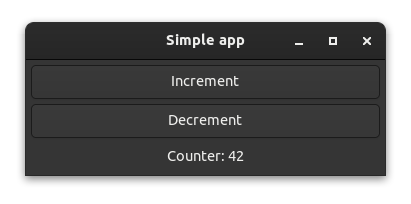
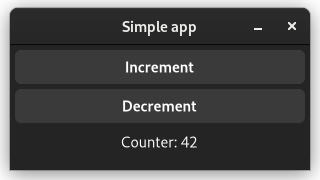
Initial work on 0.5
Added simple_manual example for both GTK and libadwaita.
Updated the introduction and first_app documents.

diff --git a/examples/libadwaita/simple_manual.rs b/examples/libadwaita/simple_manual.rs
@@ -1,6 +1,7 @@
 /* ANCHOR: all */
-use relm4::{gtk, ComponentParts, ComponentSender, RelmApp, SimpleComponent, WidgetPlus};
-use gtk::prelude::{BoxExt, ButtonExt, GtkWindowExt};
+use relm4::{gtk, adw, ComponentParts, ComponentSender, RelmApp, SimpleComponent, WidgetPlus};
+use relm4::adw::prelude::AdwWindowExt;
+use gtk::prelude::{BoxExt, ButtonExt};
 use gtk::glib::clone;
 
 // ANCHOR: model
@@ -24,35 +25,21 @@ struct AppWidgets {
 // ANCHOR_END: widgets
 
 // ANCHOR: simple_component
-// ANCHOR: impl
 impl SimpleComponent for AppModel {
-// ANCHOR_END: impl
-
-    // ANCHOR: constants
-    /// The type of the messages that this component can receive.
     type Input = AppInput;
-    /// The type of the messages that this component can send.
     type Output = ();
-    /// The type of data that this component will be initialized with.
-    type InitParams = u8;
-    /// The root GTK widget that this component will create.
-    type Root = gtk::Window;
-    /// A data structure that contains the widgets that you will need to update.
-    type Widgets = AppWidgets;
-    // ANCHOR_END: constants
 
-    // ANCHOR: init_root
+    type InitParams = u8;
+
+    type Root = adw::Window;
+    type Widgets = AppWidgets;
+
     fn init_root() -> Self::Root {
-        gtk::Window::builder()
+        adw::Window::builder()
             .title("Simple app")
-            .default_width(300)
-            .default_height(100)
             .build()
     }
-    // ANCHOR_END: init_root
 
-    // ANCHOR: init
-    /// Initialize the UI and model.
     fn init(
         counter: Self::InitParams,
         window: &Self::Root,
@@ -62,7 +49,15 @@ impl SimpleComponent for AppModel {
 
         let vbox = gtk::Box::builder()
             .orientation(gtk::Orientation::Vertical)
+            .build();
+
+        let content = gtk::Box::builder()
+            .orientation(gtk::Orientation::Vertical)
             .spacing(5)
+            .build();
+
+        let header = adw::HeaderBar::builder()
+            .title_widget(&gtk::Label::new(Some("Simple app")))
             .build();
 
         let inc_button = gtk::Button::with_label("Increment");
@@ -71,11 +66,13 @@ impl SimpleComponent for AppModel {
         let label = gtk::Label::new(Some(&format!("Counter: {}", model.counter)));
         label.set_margin_all(5);
 
-        window.set_child(Some(&vbox));
-        vbox.set_margin_all(5);
-        vbox.append(&inc_button);
-        vbox.append(&dec_button);
-        vbox.append(&label);
+        window.set_content(Some(&vbox));
+        content.set_margin_all(5);
+        content.append(&inc_button);
+        content.append(&dec_button);
+        content.append(&label);
+        vbox.append(&header);
+        vbox.append(&content);
 
         inc_button.connect_clicked(clone!(@strong sender => move |_| {
             sender.input(AppInput::Increment);
@@ -89,9 +86,7 @@ impl SimpleComponent for AppModel {
 
         ComponentParts { model, widgets }
     }
-    // ANCHOR_END: init
 
-    // ANCHOR: update_function
     fn update(&mut self, message: Self::Input, _sender: &relm4::ComponentSender<Self>) {
         match message {
             AppInput::Increment => {
@@ -102,22 +97,19 @@ impl SimpleComponent for AppModel {
             }
         }
     }
-    // ANCHOR_END: update_function
     
-    // ANCHOR: view
     /// Update the view to represent the updated model.
     fn update_view(&self, widgets: &mut Self::Widgets, _sender: &ComponentSender<Self>) {
         widgets
             .label
             .set_label(&format!("Counter: {}", self.counter));
     }
-    // ANCHOR_END: view
 }
 // ANCHOR_END: app_update
 
 // ANCHOR: main
 fn main() {
-    let app: RelmApp<AppModel> = RelmApp::new("relm4.test.simple_manual");
+    let app: RelmApp<AppModel> = RelmApp::new("relm4.adw_test.simple_manual");
     app.run(0);
 }
 // ANCHOR_END: main

diff --git a/src/first_app.md b/src/first_app.md
@@ -1,12 +1,19 @@
 # Your first app
 
-For our first app, let's create something original: a counter app.
+For our first app, let's create something original: a **counter app**.
 
-![App screenshot dark](img/screenshots/simple-dark.png)
+GTK Light | GTK Dark 
+---------|----------
+ ![App screenshot light](img/screenshots/simple-light.png) | ![App screenshot dark](img/screenshots/simple-dark.png) 
+ 
+ Adwaita Light | Adwaita Dark 
+ ---------|----------
+ ![App screenshot light adw](img/screenshots/simple-light-adw.png) | ![App screenshot dark adw](img/screenshots/simple-dark-adw.png) 
+
 
 In this app, we will have a counter which can be incremented and decremented by pressing the corresponding buttons.
 
-> The app we will write in this chapter is also available [here](https://github.com/AaronErhardt/relm4/blob/main/relm4-examples/examples/simple_manual.rs). Run `cargo run --example simple_manual` from the [example directory](https://github.com/AaronErhardt/relm4/tree/main/relm4-examples) if you want to see the code in action.
+> The app we will write in this chapter is also available [here](https://github.com/Relm4/Relm4/blob/macro-0.5/examples/simple_manual.rs). Run `cargo run --example simple_manual` from the [example directory](https://github.com/Relm4/Relm4/tree/macro-0.5/examples) if you want to see the code in action.
 
 ## Application architecture
 
@@ -26,6 +33,16 @@ In Relm4, a message can be any data type, but most often, an `enum` is used. In 
 {{#include ../examples/simple_manual.rs:msg }}
 ```
 
+Computers are capable of both sending and receiving messages, and so, components in Relm4 can send and receive messages to and from themselves and other components.
+
+This is accomplished by having two types of messages:
+- **Input** messages are sent and received by components and handled in the `update` function.
+- **Output** messages are sent by components to other components. 
+
+You can send output messages using the `output_to_parent_msg` function from the sender component and receive them in the `forward` function inside the receiver component.
+
+We will explain this througly in another chapter.
+
 ### The model
 
 Like a person, a computer needs a brain to be functional. It needs to process our messages and remember the results.
@@ -36,20 +53,19 @@ Relm4 uses the term `Model` as a data type that represents the application state
 {{#include ../examples/simple_manual.rs:model }}
 ```
 
-### The `AppUpdate` trait
+### The `SimpleComponent` trait
 
 Of course, the brain needs to do more than just remembering things, it also needs to process information.
 
-Here, both the model and message types come into play. The `update` function of the `AppUpdate` trait tells the computer how to process messages and how to update its memory.
+Here, both the model and message types come into play. The `update` function of the `SimpleComponent` trait tells the computer how to process messages and how to update its memory.
 
 ```rust,no_run,noplayground
-{{#include ../examples/simple_manual.rs:app_update }}
+{{#include ../examples/simple_manual.rs:update_function }}
 ```
 
 > `wrapping_add(1)` and `wrapping_sub(1)` are like `+1`  and `-1`, but don't panic on overflows.
 
-Also, we return `true` to tell the computer to keep our application alive. If our app should close, we can simply return `false`.
-
+We see that the `update` function receives a `message` and updates the model according to your instructions.
 
 ### The widgets
 
@@ -57,34 +73,52 @@ The computer is now able to process and remember information, but we still need 
 
 GTK4 offers the computer widgets that allow it to take input and to respond. Widgets are simply parts of an UI like buttons, input fields or text areas. To be able to update the widgets in our program, we can put them all into a `struct`.
 
-For our app, we use a window with two buttons to increment and decrement the counter and a label to display the counter value. Besides that, we need a box as a container to place our buttons and the label inside because a window can only have one child.
+For our app, we use a window with two buttons to increment and decrement the counter and a label to display the counter value. Besides that, we need a box as a container to place our buttons and the label inside because a window can only have one child. 
+
+In our case, we will only update the label when we increment or decrement the counter, so we don't really need to store everything inside the struct.
 
 ```rust,no_run,noplayground
 {{#include ../examples/simple_manual.rs:widgets }}
 ```
 
-### The `Widgets` trait
+Although, if you want to, you can.
+
+### Implement a component with `SimpleComponent`.
 
 The last step we need it to tell the computer how to initialize widgets and how to update them.
 
-In Relm4, the UI represents the memory of the application. All that's left to do is to implement the `Widgets` trait that tells the computer exactly how its memory should be visualized.
+In Relm4, the UI represents the memory of the application. All that's left to do is to implement the `SimpleComponent` trait for your `Model` that tells the computer exactly how its memory should be visualized.
 
 Let's do this step by step. First, we'll have a look at the beginning of the trait `impl`.
 
 ```rust,no_run,noplayground
-{{#include ../examples/simple_manual.rs:widgets_trait_start }}
+{{#include ../examples/simple_manual.rs:impl }}
 ```
 
-The two generic parameters are our model and the parent model. We're at the root of our app so don't have parent model and can use `()` as placeholder.
+The first thing you need to do is to define some generic types necessary to make our component work.
+
+```rust,no_run,noplayground
+{{#include ../examples/simple_manual.rs:constants }}
+```
+
+The types defined in the trait tell our component how it should communicate with other components and what widgets should be produced.
 
 The `Root` type is the outermost widget of the app. Components can choose this type freely, but the main application must use an `ApplicationWindow`.
 
-Next up, we want to initialize our UI.
+Since the window widget is our root widget, we define that in the `init_root` function.
+
+```rust,no_run,noplayground
+{{#include ../examples/simple_manual.rs:init_root }}
+```
+
+Next up, we want to initialize our UI and the model.
 
 > Don't worry about the amount of manual code you need for handling widgets. In the next chapter, we'll see how this can be done easier.
 
+All of these widgets will be created in the `init` function. We will receive the `Root` and the `InitParams` variables, which we will use to create our widgets.
+
 ```rust,no_run,noplayground
-{{#include ../examples/simple_manual.rs:init_view }}
+{{#include ../examples/simple_manual.rs:init }}
 ```
 
 First, we initialize each of our widgets, mostly by using builder patterns.
@@ -93,27 +127,11 @@ Then we connect the widgets so that GTK4 knows how they are related to each othe
 
 Next, we connect the "clicked" event for both buttons and send a message from the closures to the computer. To do this, we only need to move a cloned sender into the closures and send the message. Now every time we click our buttons, a message will be sent to update our counter!
 
-Still our UI will not update when the counter is changed. To do this, we need to implement the view function that modifies the UI according to the changes in the model.
+Still our UI will not update when the counter is changed. To do this, we need to implement the `update_view` function that modifies the UI according to the changes in the model.
 
 ```rust,no_run,noplayground
 {{#include ../examples/simple_manual.rs:view }}
 ```
-
-We're almost done. To complete the `Widgets` trait, we just need to implement the `root_widget` method that simply returns the `Root`.
-
-```rust,no_run,noplayground
-{{#include ../examples/simple_manual.rs:root_widget }}
-```
-
-
-### The `Model` trait
-
-In the `Model` trait, everything comes together. This trait just describes how the types we defined work together.
-
-```rust,no_run,noplayground
-{{#include ../examples/simple_manual.rs:model_trait }}
-```
-
 
 ## Running the App
 
@@ -138,7 +156,7 @@ A Relm4 application has three important types:
 Also, there are two important functions:
 
 1. `update` receives a message and updates the model accordingly.
-2. `view` receives the updated model and updates the widgets accordingly.
+2. `update_view` receives the updated model and updates the widgets accordingly.
 
 The app does all those things in a loop. It waits for messages and once a message is received, it runs `update` and then `view`.
 

diff --git a/src/introduction.md b/src/introduction.md
@@ -34,15 +34,15 @@ I also recommend reading the [gtk4-rs book](https://gtk-rs.org/gtk4-rs/git/book/
 Add the packages you need to your `Cargo.toml`:
 
 ```toml
-gtk = { version = "0.3", package = "gtk4" }
-relm4 = "0.2"
-relm4-macros = "0.2"
-relm4-components = "0.2"
+gtk4 = "0.4.7"
+relm4 = "0.5.0"
+relm4-macros = "0.5.0"
+relm4-components = "0.5.0"
 ```
 
 ## Issues and feedback
 
-If you find a mistake or something unclear in Relm4 or this book, let me know! Simply open up an issue over at [GitHub](https://github.com/AaronErhardt/relm4/issues) or chat with us on [Matrix](https://matrix.to/#/#relm4:matrix.org).
+If you find a mistake or something unclear in Relm4 or this book, let us know! Simply open up an [issue](https://github.com/AaronErhardt/relm4/issues) or start a [discussion](https://github.com/Relm4/Relm4/discussions) over at [GitHub](https://github.com/Relm4/Relm4) or chat with us on [Matrix](https://matrix.to/#/#relm4:matrix.org).
 
 ## Platform support
 
@@ -50,25 +50,31 @@ All platforms supported by GTK4 are available for Relm4 as well:
 
 + Linux
 + Windows
-+ MacOS
++ macOS
 
 ## Examples
 
 If you prefer learning directly from examples, we got you covered!
 
-Many code examples in this book and many other examples can also be found in the [relm4-examples crate](https://github.com/AaronErhardt/relm4/tree/main/relm4-examples). Whenever an example is discussed in the book, the introduction will mention the name of the example and provide a link to it.
+Many code examples in this book and many other examples can also be found in the [relm4-examples crate](https://github.com/Relm4/Relm4/tree/macro-0.5/examples). Whenever an example is discussed in the book, the introduction will mention the name of the example and provide a link to it.
 
 To setup the examples run
 
 ```bash
-git clone https://github.com/AaronErhardt/relm4.git
-cd relm4
+git clone https://github.com/Relm4/Relm4.git
+cd Relm4/examples
 ```
 
 And to run an example, simply type
 
 ```
 cargo run --example NAME
+```
+
+To get a list of all examples, run
+
+```
+cargo run --example
 ```
 
 ### Screenshots
